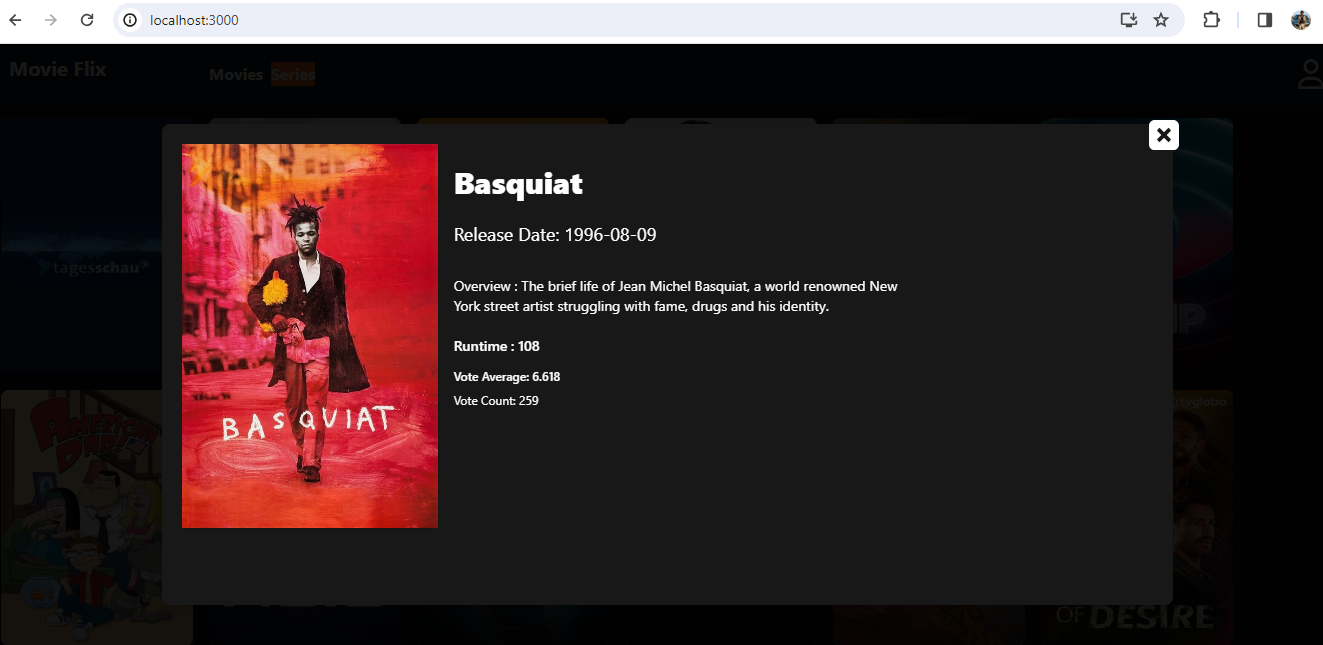
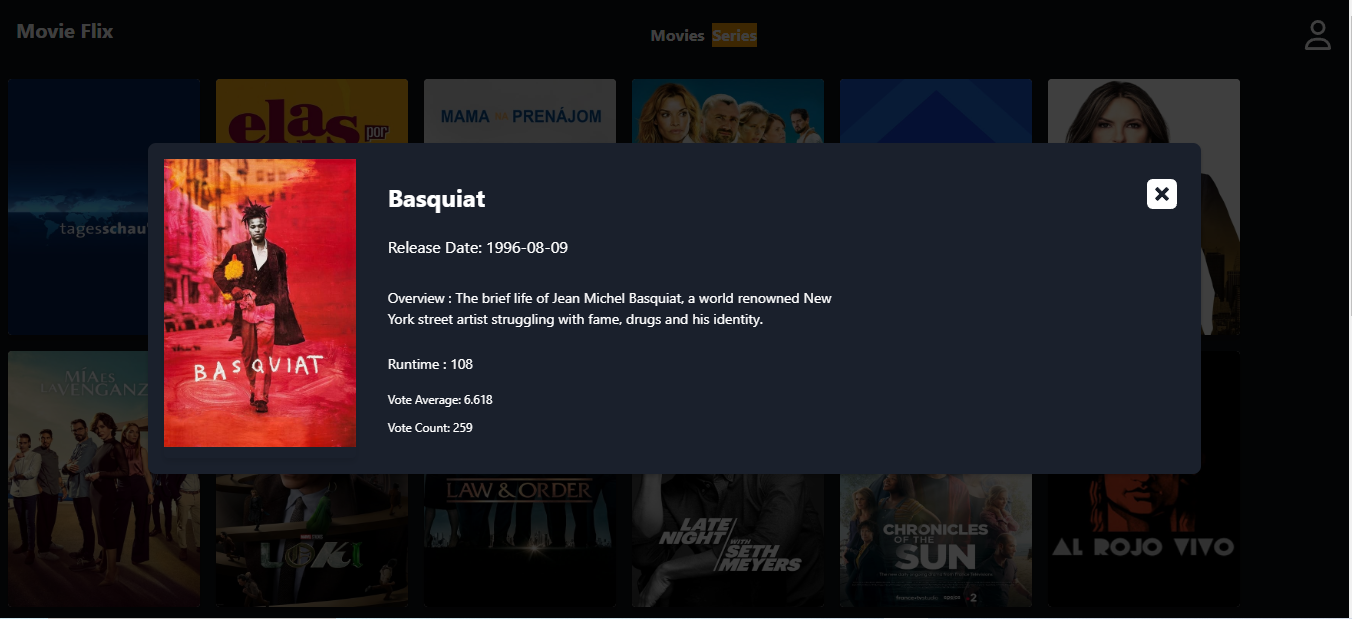
Added new screenshots and modified Read me file

diff --git a/src/custom.css b/src/custom.css
@@ -8,7 +8,7 @@
 .tab-main-div {
   display: flex;
   padding: 1rem;
-  background-color:gray; 
+  background-color:#0F1014; 
   color: white;
   font-weight: bold;
 }

diff --git a/README.md b/README.md
@@ -1,10 +1,16 @@
-### `Dependencies or packages installed`
+### `How to run the project/app`
 
-Axios 
-React router DOM
-React Error Boundary
-Tailwind css - for better and rich UI
-Jest
+- Git clone https://github.com/RajendraKumar-V/my-tmdb-app
+- npm install
+- npm start
+- Open [http://localhost:3000](http://localhost:3000) to view it in the browser
+
+
+### `npm test`
+
+To launch the test runner in interactive watch mode for your project, please use the following command. This will help you ensure the correctness of your code and assist in identifying any issues during development:
+
+npm test
 
 ### `Functionality implemented`
 
@@ -37,18 +43,12 @@ It will be redirected to movie detail page.
 -Series detail screen
 ![Movie_detail Screen](./src/ScreenShots/Series_Detail.PNG)
 
-### `How to run the project/app`
+### `Frameworks/Libraries used`
 
-- Git clone https://github.com/RajendraKumar-V/my-tmdb-app
-- npm install
-- npm start
+React
+Tailwind
+Jest
 
-
-### `npm test`
-
-To launch the test runner in interactive watch mode for your project, please use the following command. This will help you ensure the correctness of your code and assist in identifying any issues during development:
-
-npm test
 
 
 
